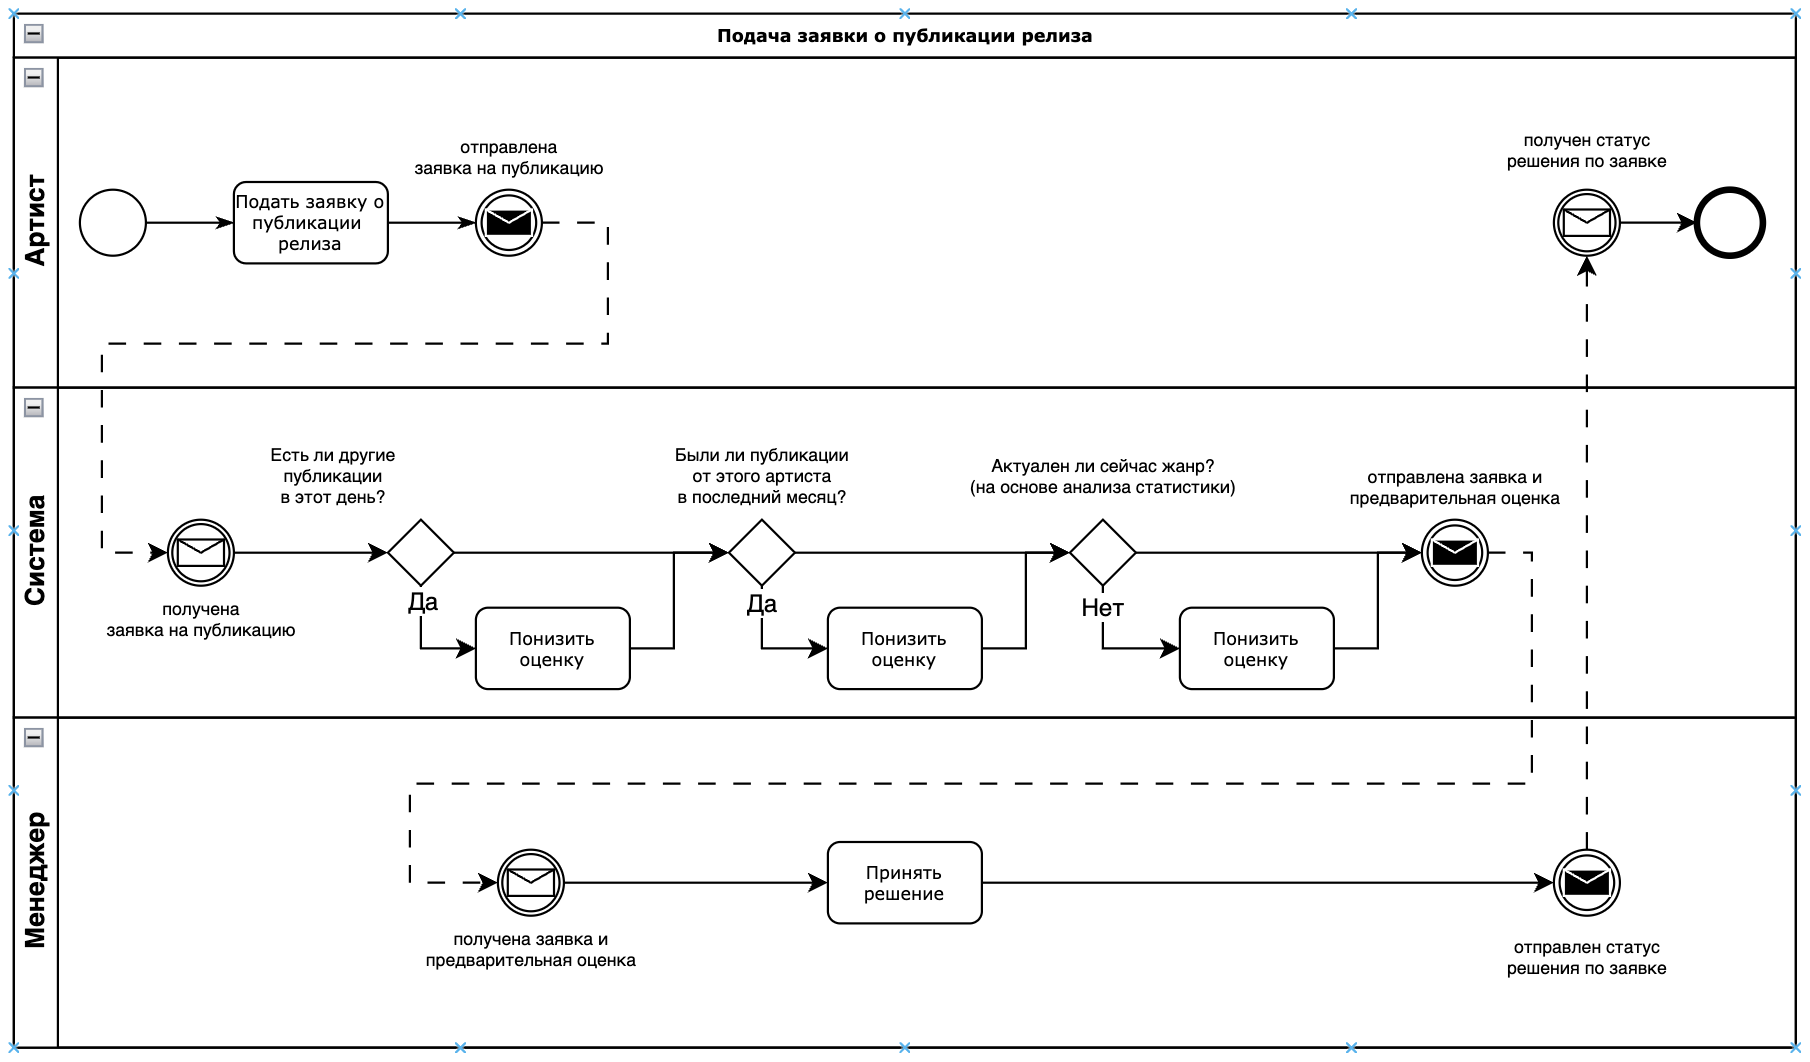
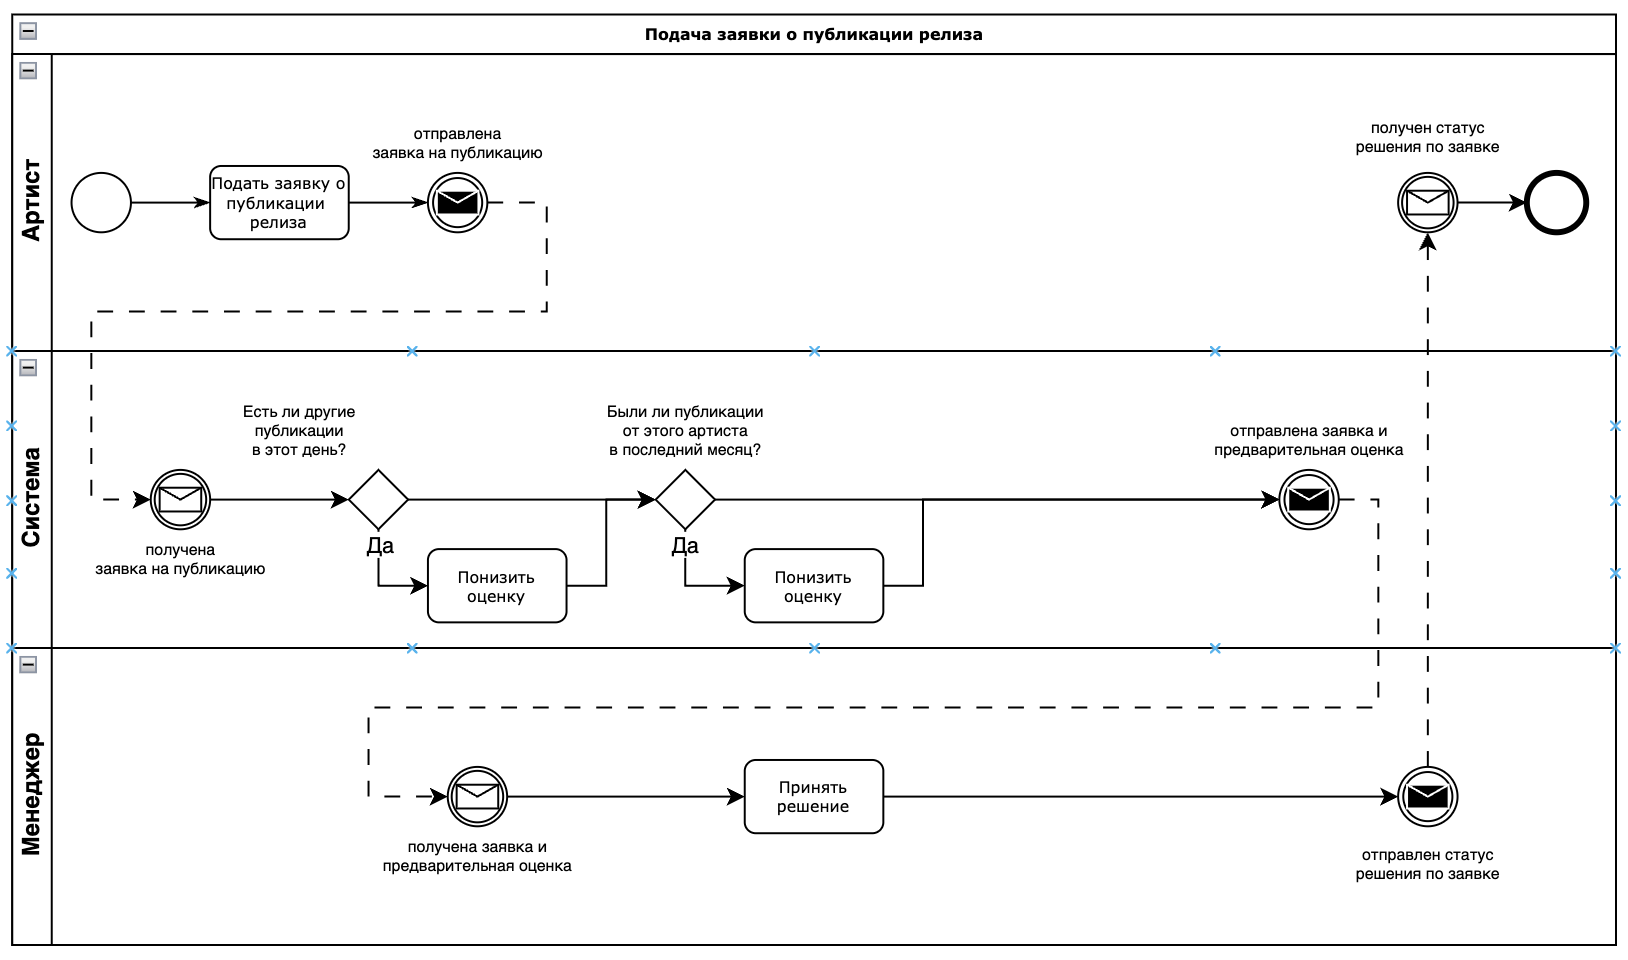
del stats

diff --git a/backend/internal/repo/pg/manager_test.go b/backend/internal/repo/pg/manager_test.go
@@ -1,1 +1,83 @@
 package postgres
+
+import (
+	"context"
+	"cookdroogers/internal/repo"
+	"cookdroogers/internal/transactor"
+	transactor_impl "cookdroogers/internal/transactor/trm"
+	"cookdroogers/models/data_builders"
+	cdtime "cookdroogers/pkg/time"
+	"database/sql"
+	"github.com/DATA-DOG/go-sqlmock"
+	trmsqlx "github.com/avito-tech/go-transaction-manager/drivers/sqlx/v2"
+	"github.com/avito-tech/go-transaction-manager/trm/v2/manager"
+	"github.com/jmoiron/sqlx"
+	"github.com/ozontech/allure-go/pkg/framework/provider"
+	"github.com/ozontech/allure-go/pkg/framework/suite"
+	"testing"
+)
+
+type ManagerPgRepoSuite struct {
+	suite.Suite
+	db         *sql.DB
+	mock       sqlmock.Sqlmock
+	repo       repo.ManagerRepo
+	transactor transactor.Transactor
+	ctx        context.Context
+}
+
+func (s *ManagerPgRepoSuite) BeforeEach(t provider.T) {
+	var err error
+	s.db, s.mock, err = sqlmock.New(sqlmock.QueryMatcherOption(sqlmock.QueryMatcherEqual))
+	if err != nil {
+		t.Fatalf("error creating mock database: %v", err)
+	}
+	s.repo = NewManagerPgRepo(s.db, transactor_impl.NewATtrm(manager.Must(trmsqlx.NewDefaultFactory(sqlx.NewDb(s.db, "pgx")))))
+	s.ctx = context.Background()
+}
+
+func (s *ManagerPgRepoSuite) AfterEach(t provider.T) {
+	s.db.Close()
+}
+
+func (s *ManagerPgRepoSuite) TestManagerPgRepo_CreateSuccess(t provider.T) {
+	t.Title("Create: Success")
+	t.Tags("ManagerPgRepo")
+	t.WithNewStep("Success", func(sCtx provider.StepCtx) {
+		q := "INSERT INTO managers(user_id) VALUES($1) RETURNING manager_id"
+		s.mock.ExpectQuery(q).
+			WithArgs(uint64(7), "uzi", cdtime.GetEndOfContract(), true, uint64(9)).
+			WillReturnRows(sqlmock.NewRows([]string{"Manager_id"}).AddRow(1))
+
+		expectedManager := data_builders.NewManagerBuilder().Build()
+		Manager := data_builders.NewManagerBuilder().WithID(0).Build()
+
+		err := s.repo.Create(s.ctx, Manager)
+
+		sCtx.Assert().NoError(err)
+		sCtx.Assert().Equal(expectedManager, Manager)
+	})
+}
+
+func (s *ManagerPgRepoSuite) TestRequestPgRepo_CreateFailure(t provider.T) {
+	t.Title("Create: Failure")
+	t.Tags("ManagerPgRepo")
+	t.WithNewStep("Failure", func(sCtx provider.StepCtx) {
+		q := "INSERT INTO Managers(user_id, nickname, contract_due, activity, manager_id)" +
+			"VALUES($1, $2, $3, $4, $5) RETURNING Manager_id"
+		s.mock.ExpectQuery(q).
+			WillReturnError(sql.ErrConnDone)
+
+		expectedManager := data_builders.NewManagerBuilder().WithID(0).Build()
+		Manager := data_builders.NewManagerBuilder().WithID(0).Build()
+
+		err := s.repo.Create(s.ctx, Manager)
+
+		sCtx.Assert().ErrorIs(err, PgDbErr)
+		sCtx.Assert().Equal(expectedManager, Manager)
+	})
+}
+
+func TestManagerPgRepoSuiteRunner(t *testing.T) {
+	suite.RunSuite(t, new(ManagerPgRepoSuite))
+}

diff --git a/web.md b/web.md
@@ -6,7 +6,7 @@ Cook Droogers'
 ## Краткое описание идеи проекта
 Сайт для музыкального лейбла, предназначенный для автоматизации взаимодействия менеджеров и артистов.
 
-Предоставить артистам возможность узнать информацию о лейбле и подать заявку на вступление, его участникам - возможность опубликовать свое творчество, а менеджерам - возможность просмотреть заявки, опубликовать релиз, заняться управлением артистами, получить данные по статистике релизов.
+Предоставить артистам возможность узнать информацию о лейбле и подать заявку на вступление, его участникам - возможность опубликовать свое творчество, а менеджерам - возможность просмотреть заявки, опубликовать релиз, заняться управлением артистами.
 
 Посредством сайта артисты смогут узнать о решениях менеждмента.
 
@@ -14,11 +14,11 @@ Cook Droogers'
 
 Предметная область - музыкальное объединение.
 
-Автоматизация работы бизнес-процессов лейбла на стыке артистов и менеджмента. Ключевым элементом является система заявок и обработка статистики, полученной от стриминговых сервисов.
+Автоматизация работы бизнес-процессов лейбла на стыке артистов и менеджмента. Ключевым элементом является система заявок между членами лейбла и менеджерами.
 
 ## Актуальность
 
-Каждое музыкальное объединение (музыкальный лейбл) должно сохранять информацию о творчестве артистов, о контрактах и т.д и т.п. Артисты устали решать все вопросы по почте, а менеджеры - вручную загружать информацию в систему. Возможность получить отчет-анализ, позволяющий спрогнозировать статистику, уже давно применяется в различных отраслях, однако до музыкального бизнеса это пока не добралось. Автоматизация такого бизнеса необходима.
+Каждое музыкальное объединение (музыкальный лейбл) должно сохранять информацию о творчестве артистов, о контрактах и т.д и т.п. Артисты устали решать все вопросы по почте, а менеджеры - вручную загружать информацию в систему. Автоматизация такого бизнеса необходима.
 В связи с уходом из России SonyMusic, у артистов больше не осталось возможности посредством сайта/приложения согласовывать публикации и видеть статистику по своим релизам.
 
 ## Описание ролей
@@ -26,9 +26,9 @@ Cook Droogers'
 
 **Пользователь** - авторизованный, может посмотреть расширенную информацию о лейбле и подать заявку о вступлении.
 
-**Артист** - принятый в лейбл пользователь, может загрузить свой релиз, подать заявку на его публикацию, получить статистику своих релизов, имеет личного менеджера.
+**Артист** - принятый в лейбл пользователь, может загрузить свой релиз, подать заявку на его публикацию, имеет личного менеджера.
 
-**Менеджер** - сотрудник лейбла, курирует несколько артистов, отвечает на заявки (заявку на вступление получает случайный менеджер), может получить данные о статистике релизов его артистов.
+**Менеджер** - сотрудник лейбла, курирует несколько артистов, отвечает на заявки (заявку на вступление получает случайный менеджер).
 
 **Администратор** - сотрудник лейбла, назначает менеджеров.
 
@@ -47,22 +47,8 @@ Cook Droogers'
 1. система совершает предварительную оценку заявки:
 * проверяется есть ли в этот день публикации от других артистов (запрос в базу);
 * проверяется были ли публикации релизов этого артиста в последнее время (запрос в базу);
-* запуск алгоритма анализа статистики твсех треков лейбла чтобы проверить актуальность жанра (вероятнее всего, это будет линейная регрессия + экстраполяция);
 3. заявка отображается в списке заявок менеджера, к которому прикреплен данный артист, показывается предварительная оценка системы;
 4. менеджер отклоняет заявку/принимает заявку/отменяет и назначает публикацию самостоятельно
-
-#### Формирование отчета для _менеджера_
-
-Происходит анализ статистики релизов, по итогам которого определяется:
-* предполагаемые прослушивания в следующем полугодии по артистам (точный срок пока не определен) (только для прикрепленных к менеджеру артистов) (вероятнее всего линейная регрессия + экстраполяция)
-* актуальный жанр (анализ всех треков лейбла) (сравнение предполагаемых прослушиваний)
-* изменения в прослушиваниях\лайках курируемых артистов
-* данные предыдущего отчета (чтобы оценить динамику)
-* графики, отображающие эти показатели;
-* самый прослушиваемый трек, релиз, артист (среди курируемых).
-
-Статистика загружается со "стримингового сервиса": в приложении предусмотрен route (/statistics), при отправке на который POST запроса с информацией со стороны отдельного сервиса в JSON формате, она средставми основного приложения автоматически заносится в БД, откуда она уже будет выбираться для анализа.
-Этот вспомогательный сервис также будет реализован в рамках этой работы: он "должен" собирать статистику со стриминговых сервисов, однако на деле это будет заглушка, которая при запуске будет присылать заранее подготовленные и/или случайные данные.
 
 
 ## Пользовательские сценарии
@@ -80,14 +66,12 @@ Cook Droogers'
 
 **Артист** может:
 - загрузить релиз (альбом/сингл/EP/микстейп, который будет состоять из информации о релизе и содержащихся треках)
-- подать заявку на публикацию релиза (выбрать свой неопубликованный релиз и желаемую дату публикации);
-- получить актуальную статистику своих релизов
+- подать заявку на публикацию релиза (выбрать свой неопубликованный релиз и желаемую дату публикации).
 
 **Менеджер** может:
 - получить данные о статистике релизов своих артистов; 
 - принять заявку вступления в лейбл (просмотреть заявки и принять/отклонить ее);
-- принять заявку о публикации релиза (выбрать заявку и принять/отменить ее);
-- посмотреть статистику релизов.
+- принять заявку о публикации релиза (выбрать заявку и принять/отменить ее).
 
 **Администратор** может:
 - посмотреть список менеджеров; 
@@ -106,7 +90,7 @@ Cook Droogers'
 
 ## Верхнеуровневое разбиение на компоненты
 
-![](pics/comps.jpg)
+![](pics/comps.png)
 
 ## Схема базы данных
 
@@ -174,4 +158,3 @@ Cook Droogers'
 - название
 - тип (интро/аутро/ремикс/как артист назовёт)
 - длительность
-- сам трек в виде файла
